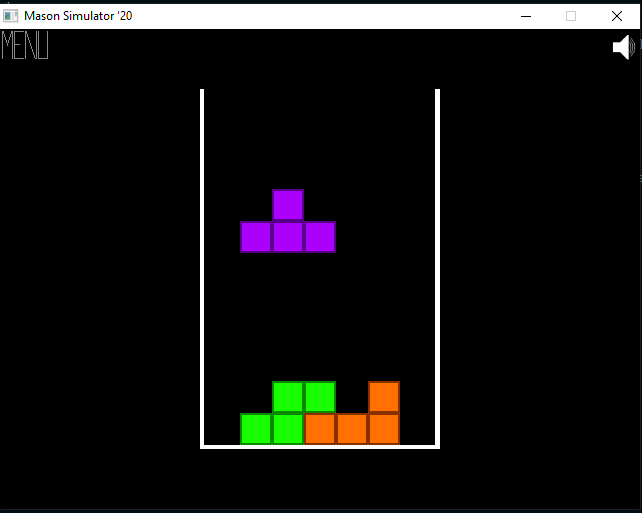
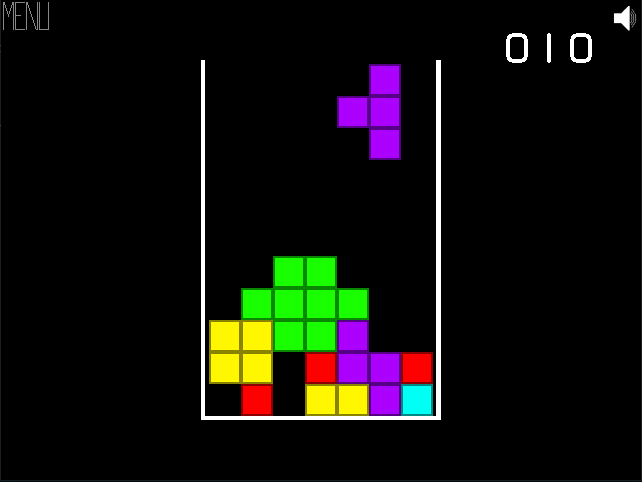
Scoring

diff --git a/src/GameScene.cpp b/src/GameScene.cpp
@@ -496,6 +496,7 @@ Composite *GameScene::CreateRandomBlock()
 
 GameScene::GameScene()
 {
+    score = 0;
     block_spawners[0] = &GameScene::CreateIBlock;
     block_spawners[1] = &GameScene::CreateZBlock;
     block_spawners[2] = &GameScene::CreateJBlock;
@@ -507,6 +508,8 @@ GameScene::GameScene()
 
 void GameScene::OnLoad()
 {
+    score = 0;
+
     // Playing Area
     auto *area = new Entity;
     auto *area_sprite = new SpriteComponent(ResourceManager::GetImagePath("PlayingArea"));
@@ -549,6 +552,35 @@ void GameScene::OnLoad()
     right->x = 432;
     right->AddComponent(right_collision);
     AddEntity(right);
+
+    // Score
+    auto *digit1 = new Entity;
+    auto *digit2 = new Entity;
+    auto *digit3 = new Entity;
+
+    auto *digit1_sprite = new SpriteComponent(ResourceManager::GetImagePath("0"));
+    auto *digit2_sprite = new SpriteComponent(ResourceManager::GetImagePath("0"));
+    auto *digit3_sprite = new SpriteComponent(ResourceManager::GetImagePath("0"));
+
+    digit1->y = 32;
+    digit2->y = 32;
+    digit3->y = 32;
+
+    digit1->x = 564;
+    digit2->x = 532;
+    digit3->x = 500;
+
+    digit1->AddComponent(digit1_sprite);
+    digit2->AddComponent(digit2_sprite);
+    digit3->AddComponent(digit3_sprite);
+
+    AddEntity(digit1);
+    AddEntity(digit2);
+    AddEntity(digit3);
+
+    score_sprites[0] = digit1_sprite;
+    score_sprites[1] = digit2_sprite;
+    score_sprites[2] = digit3_sprite;
 
     // Create block.
     current_block = CreateRandomBlock();
@@ -706,6 +738,29 @@ void GameScene::HandleBlockGravity(float elapsed)
     }
 }
 
+void GameScene::UpdateScore()
+{
+    if (score >= 999) {
+        for (auto *sprite : score_sprites) {
+            SDL_FreeSurface(sprite->surface);
+            sprite->surface = SDL_LoadBMP(ResourceManager::GetImagePath("9").c_str());
+        }
+    }
+
+    int i = 0;
+    int temp = score;
+
+    while (temp > 0) {
+        int digit = temp % 10;
+        
+        SDL_FreeSurface(score_sprites[i]->surface);
+        score_sprites[i]->surface = SDL_LoadBMP(ResourceManager::GetImagePath(std::to_string(digit)).c_str());
+        
+        temp /= 10;
+        i++;
+    }
+}
+
 // @TODO: Clean this code up. Also, there may be an issue with blocks needing to fall more than the number of levels that were deleted? Not sure how this works in
 // real tetris. Should research.
 void GameScene::HandleScoring()
@@ -738,6 +793,7 @@ void GameScene::HandleScoring()
         }
 
         if (row_filled) {
+            score++;
             rows_deleted++;
             min_delted_row_lvl = std::min(min_delted_row_lvl, ROWS - i - 1);
 
@@ -754,6 +810,7 @@ void GameScene::HandleScoring()
                 entity->y += DROP_AMOUNT * rows_deleted;
             }
         }
+        UpdateScore();
     }
 }
 

diff --git a/includes/GameScene.h b/includes/GameScene.h
@@ -24,6 +24,9 @@ public:
 private:
     Composite *current_block = nullptr;
     Composite* (GameScene::* block_spawners[COUNT_BLOCK_SPAWNERS])();
+    int score;
+    SpriteComponent *score_sprites[3];
+
     Composite *CreateIBlock();
     Composite *CreateZBlock();
     Composite *CreateJBlock();
@@ -37,6 +40,7 @@ private:
     void HandleBlockGravity(float elapsed);
     void HandleScoring();
     bool CanMoveDirection(Direction direction);
+    void UpdateScore();
 };
 
 #endif
